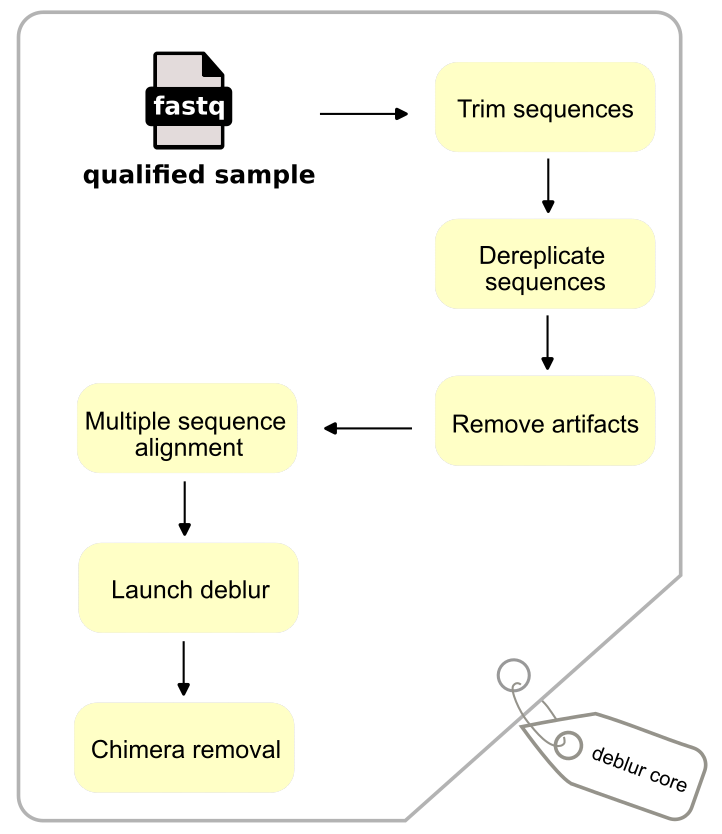
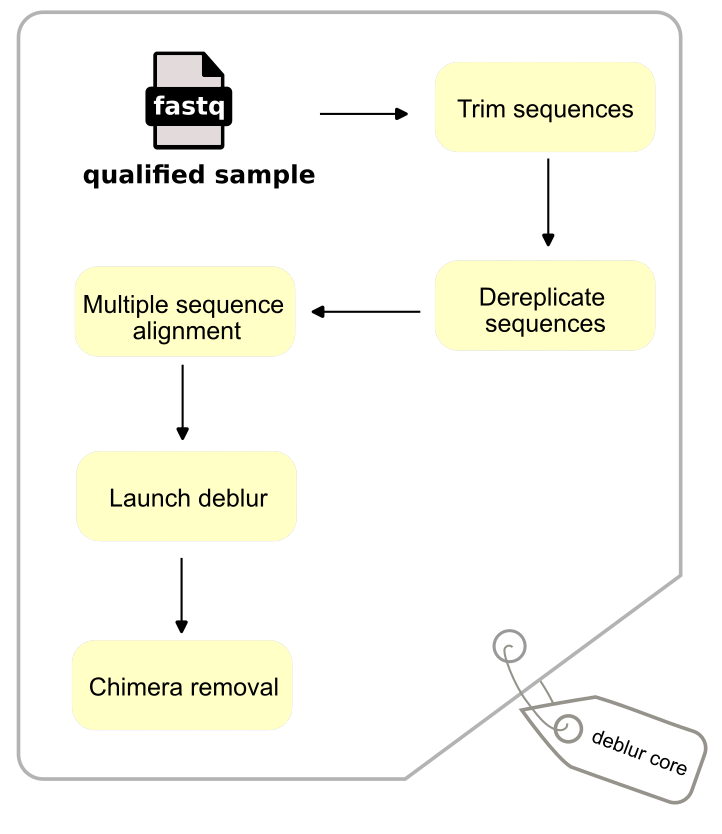
fix: correct deblur core workflow

diff --git a/docs/deblur.md b/docs/deblur.md
@@ -16,7 +16,7 @@ qiime quality-filter q-score \
   --o-filter-stats demux-filter-stats.qza
 ```
 
-And the core deblur command:
+And the deblur command:
 ```
 qiime deblur denoise-16S \
   --i-demultiplexed-seqs demux-filtered.qza \
